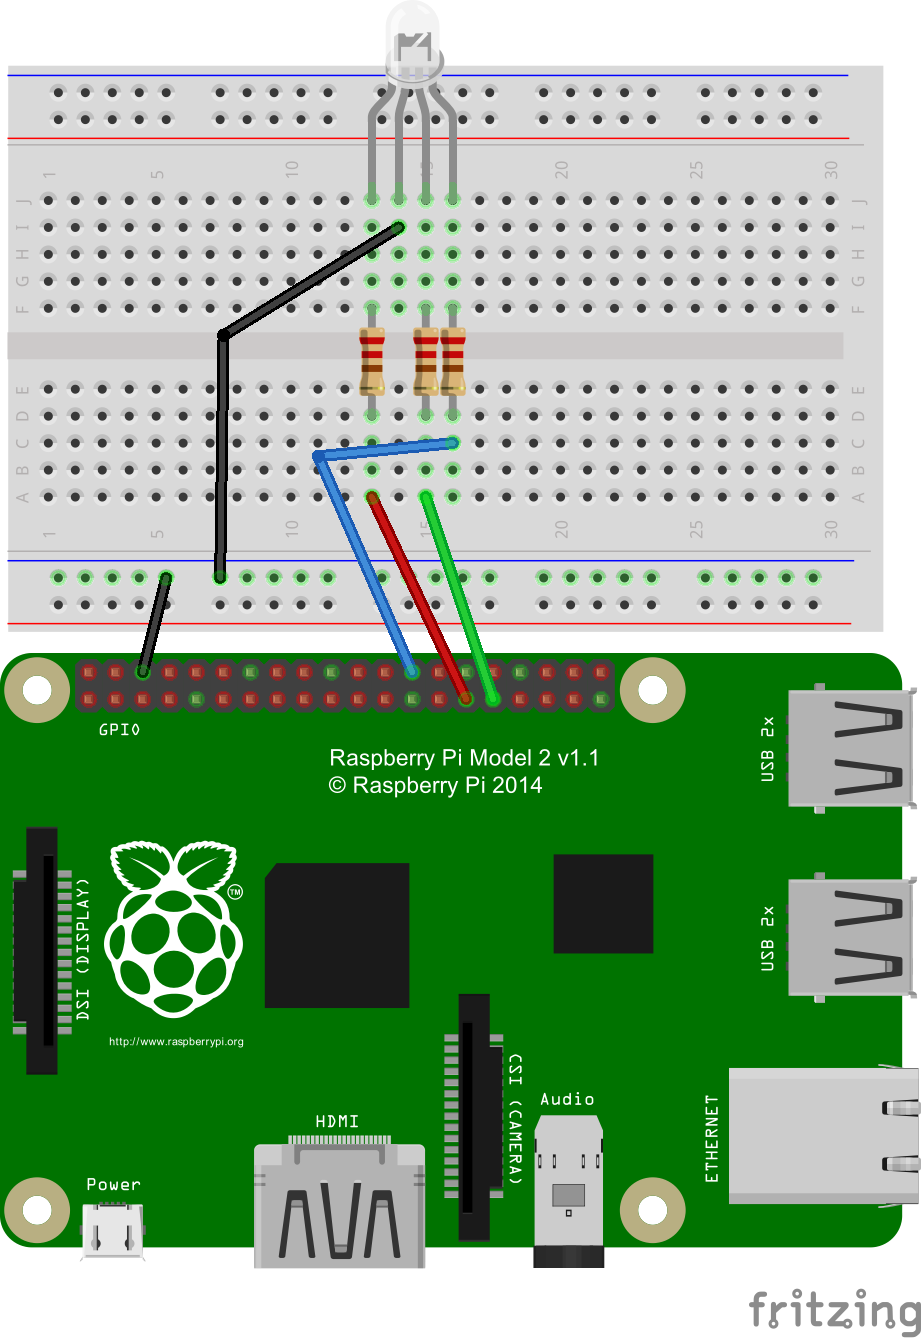
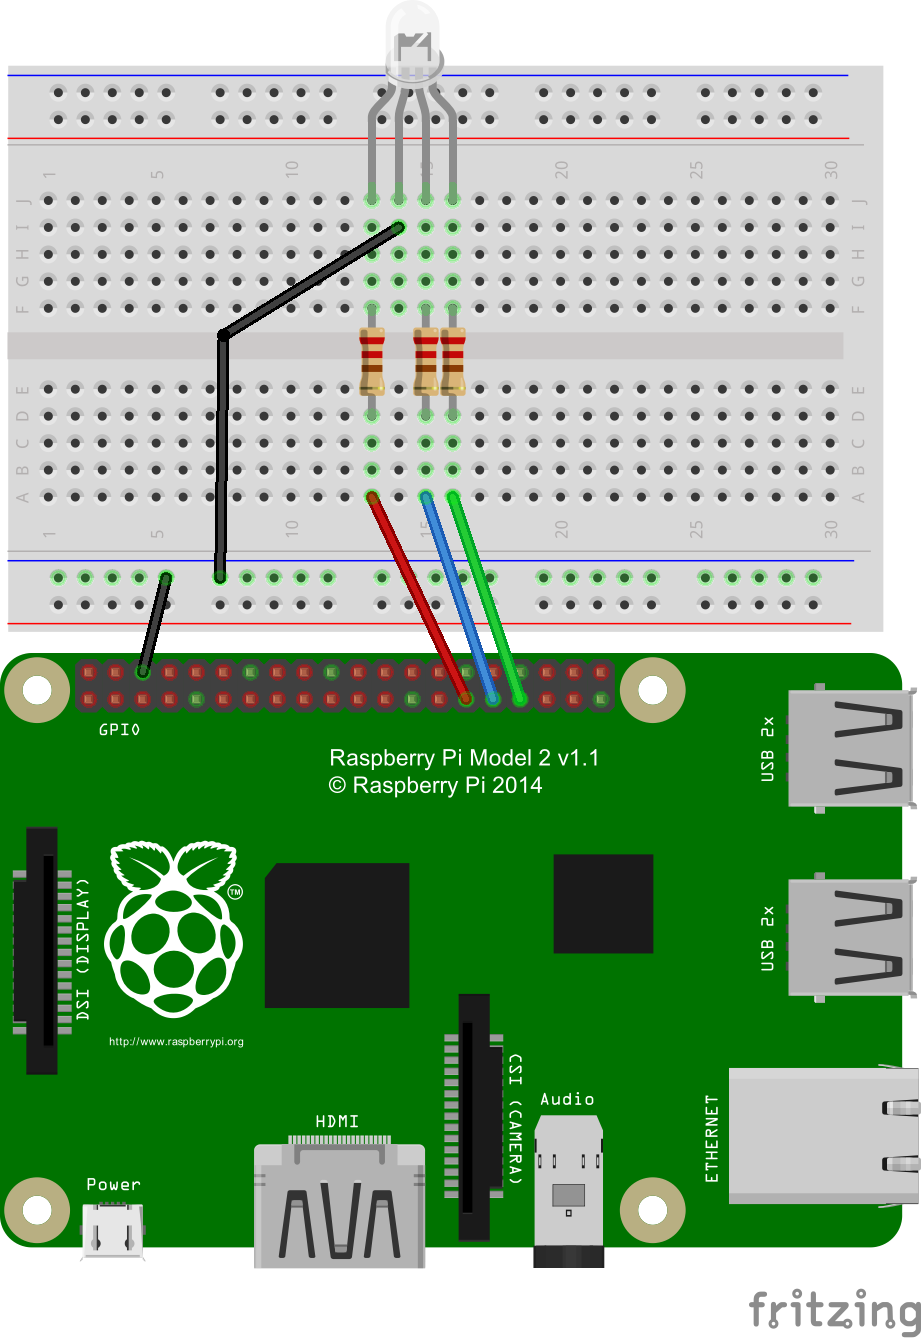
Update led wiring

Changed region(s): [[0.3344, 0.3064, 0.5168, 0.5209], [0.456, 0.3677, 0.5776, 0.5516]]

diff --git a/RgbLed/MainPage.xaml.cs b/RgbLed/MainPage.xaml.cs
@@ -6,6 +6,7 @@ using System.ComponentModel;
 using System.IO;
 using System.Linq;
 using System.Runtime.InteropServices.WindowsRuntime;
+using System.Threading.Tasks;
 using Windows.Devices.Pwm;
 using Windows.Foundation;
 using Windows.Foundation.Collections;
@@ -54,26 +55,12 @@ namespace RgbLed
             }
         }
 
+        Color[] colors = new Color[] { Colors.Red, Colors.Green, Colors.Blue , Colors.Yellow, Colors.Orange, Colors.Turquoise, Colors.White, Color.FromArgb(255, 120, 120, 120), Color.FromArgb(255,50,50,50), Colors.Black };
+
         private void Timer_Tick(object sender, object e)
         {
-            switch (counter++ % 5)
-            {
-                case 0:
-                    SelectedColor.Color = Colors.Red;
-                    break;
-                case 1:
-                    SelectedColor.Color = Colors.Yellow;
-                    break;
-                case 2:
-                    SelectedColor.Color = Colors.Orange;
-                    break;
-                case 3:
-                    SelectedColor.Color = Colors.Turquoise;
-                    break;
-                default:
-                    SelectedColor.Color = Colors.Green;
-                    break;
-            }
+            var pos = counter++ % colors.Length;
+            SelectedColor.Color = colors[pos];
         }
 
         private async void MainPage_Loaded(object sender, RoutedEventArgs e)
@@ -96,11 +83,14 @@ namespace RgbLed
                                 {
                                     controller.SetDesiredFrequency(100);
                                     var pinR = controller.OpenPin(5);
-                                    var pinG = controller.OpenPin(6);
-                                    var pinB = controller.OpenPin(7);
+                                    var pinB = controller.OpenPin(6);
+                                    var pinG = controller.OpenPin(13);
                                     led = new RgbLed(pinR, pinG, pinB);
-                                    led.Color = Colors.Green;
                                     led.On();
+                                    led.Color = Colors.White;
+                                    Task.Delay(50).Wait();
+                                    led.Color = Colors.Black;
+
                                 }
                             }
                         }
@@ -110,6 +100,7 @@ namespace RgbLed
                 {
                     System.Diagnostics.Debug.WriteLine(ex.Message);
                 }
+                timer.Start();
             }
         }
 
